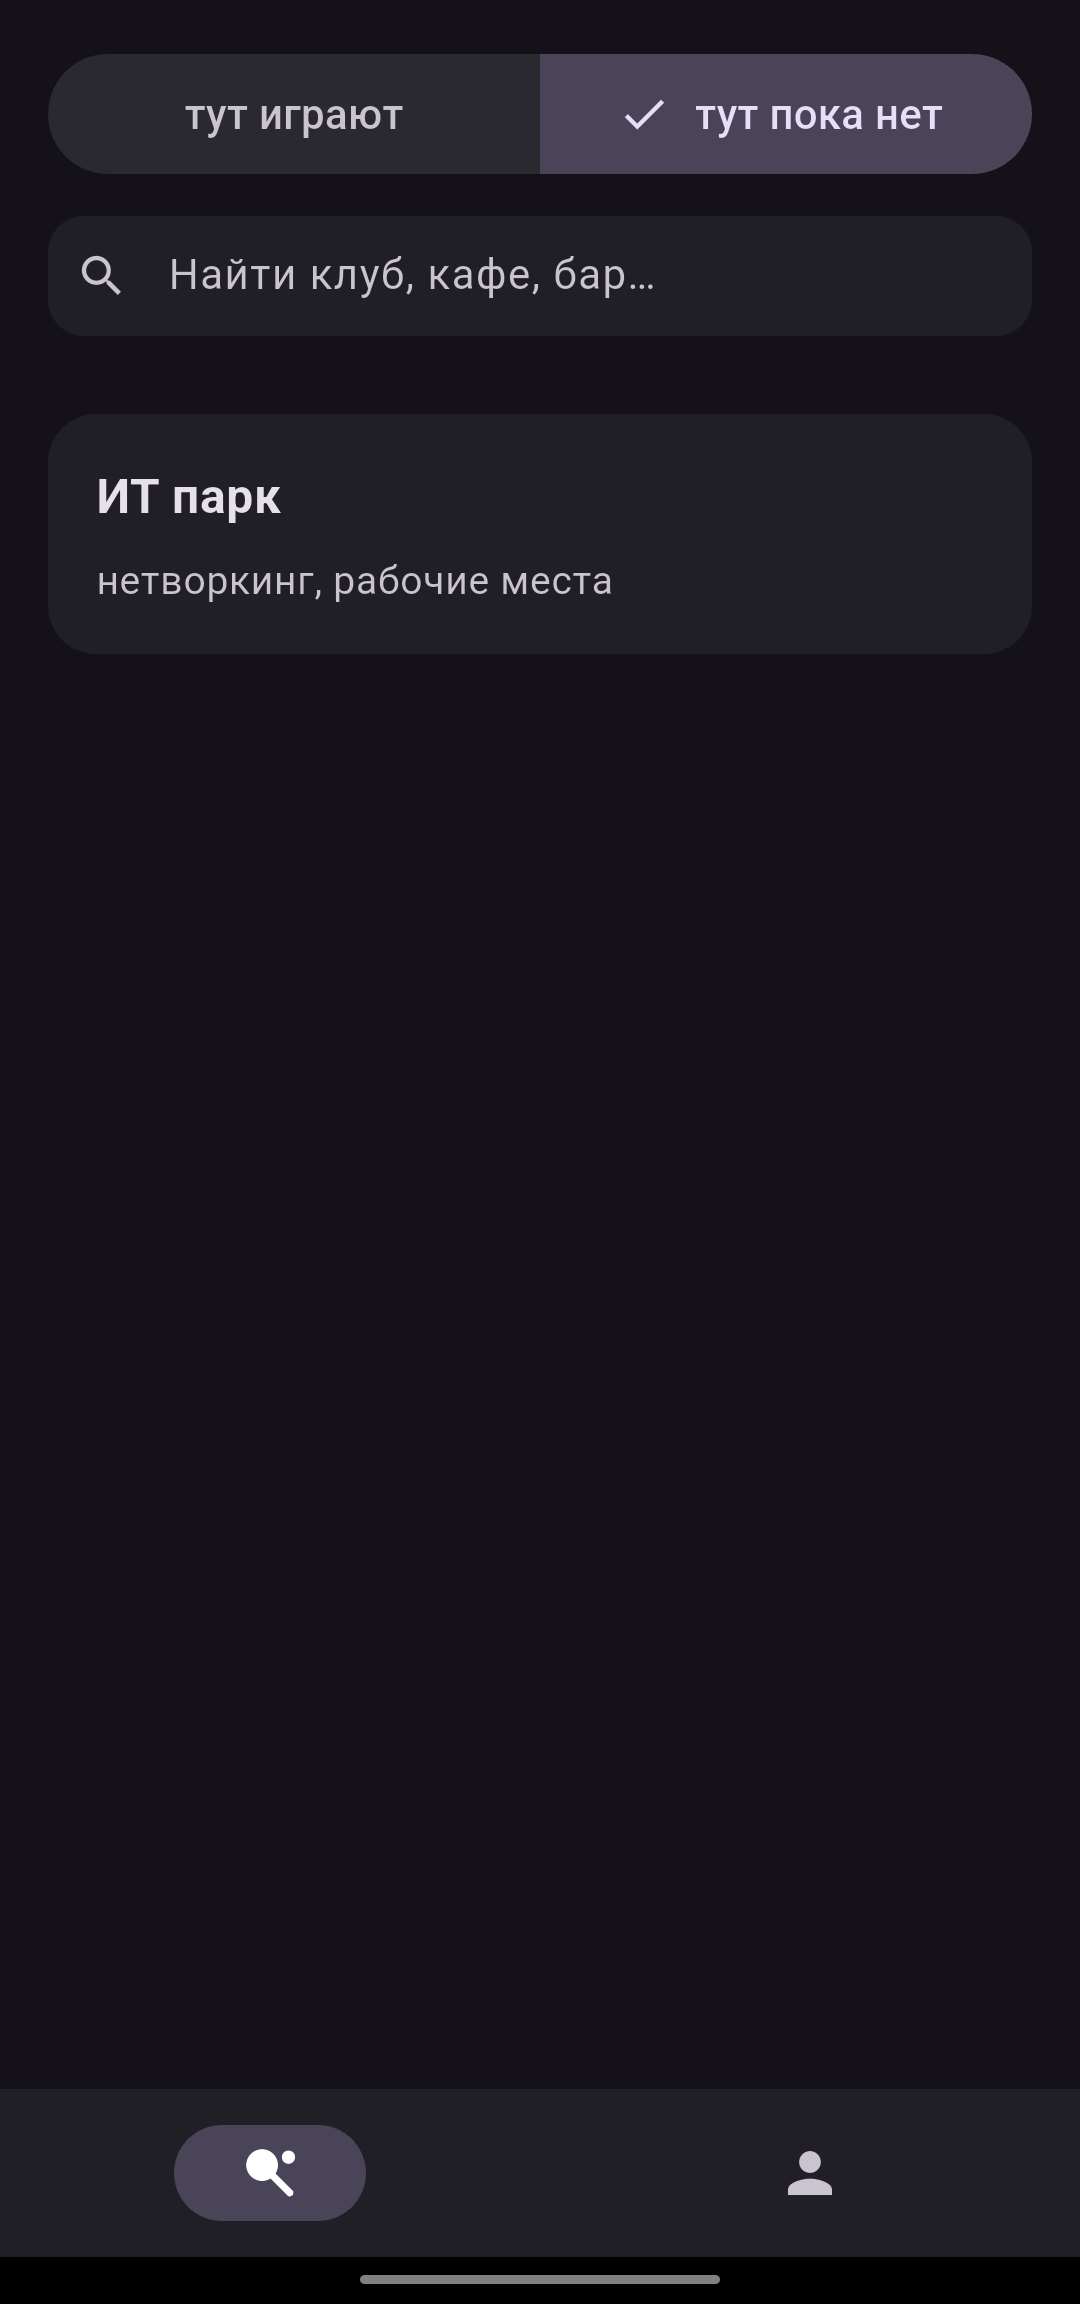
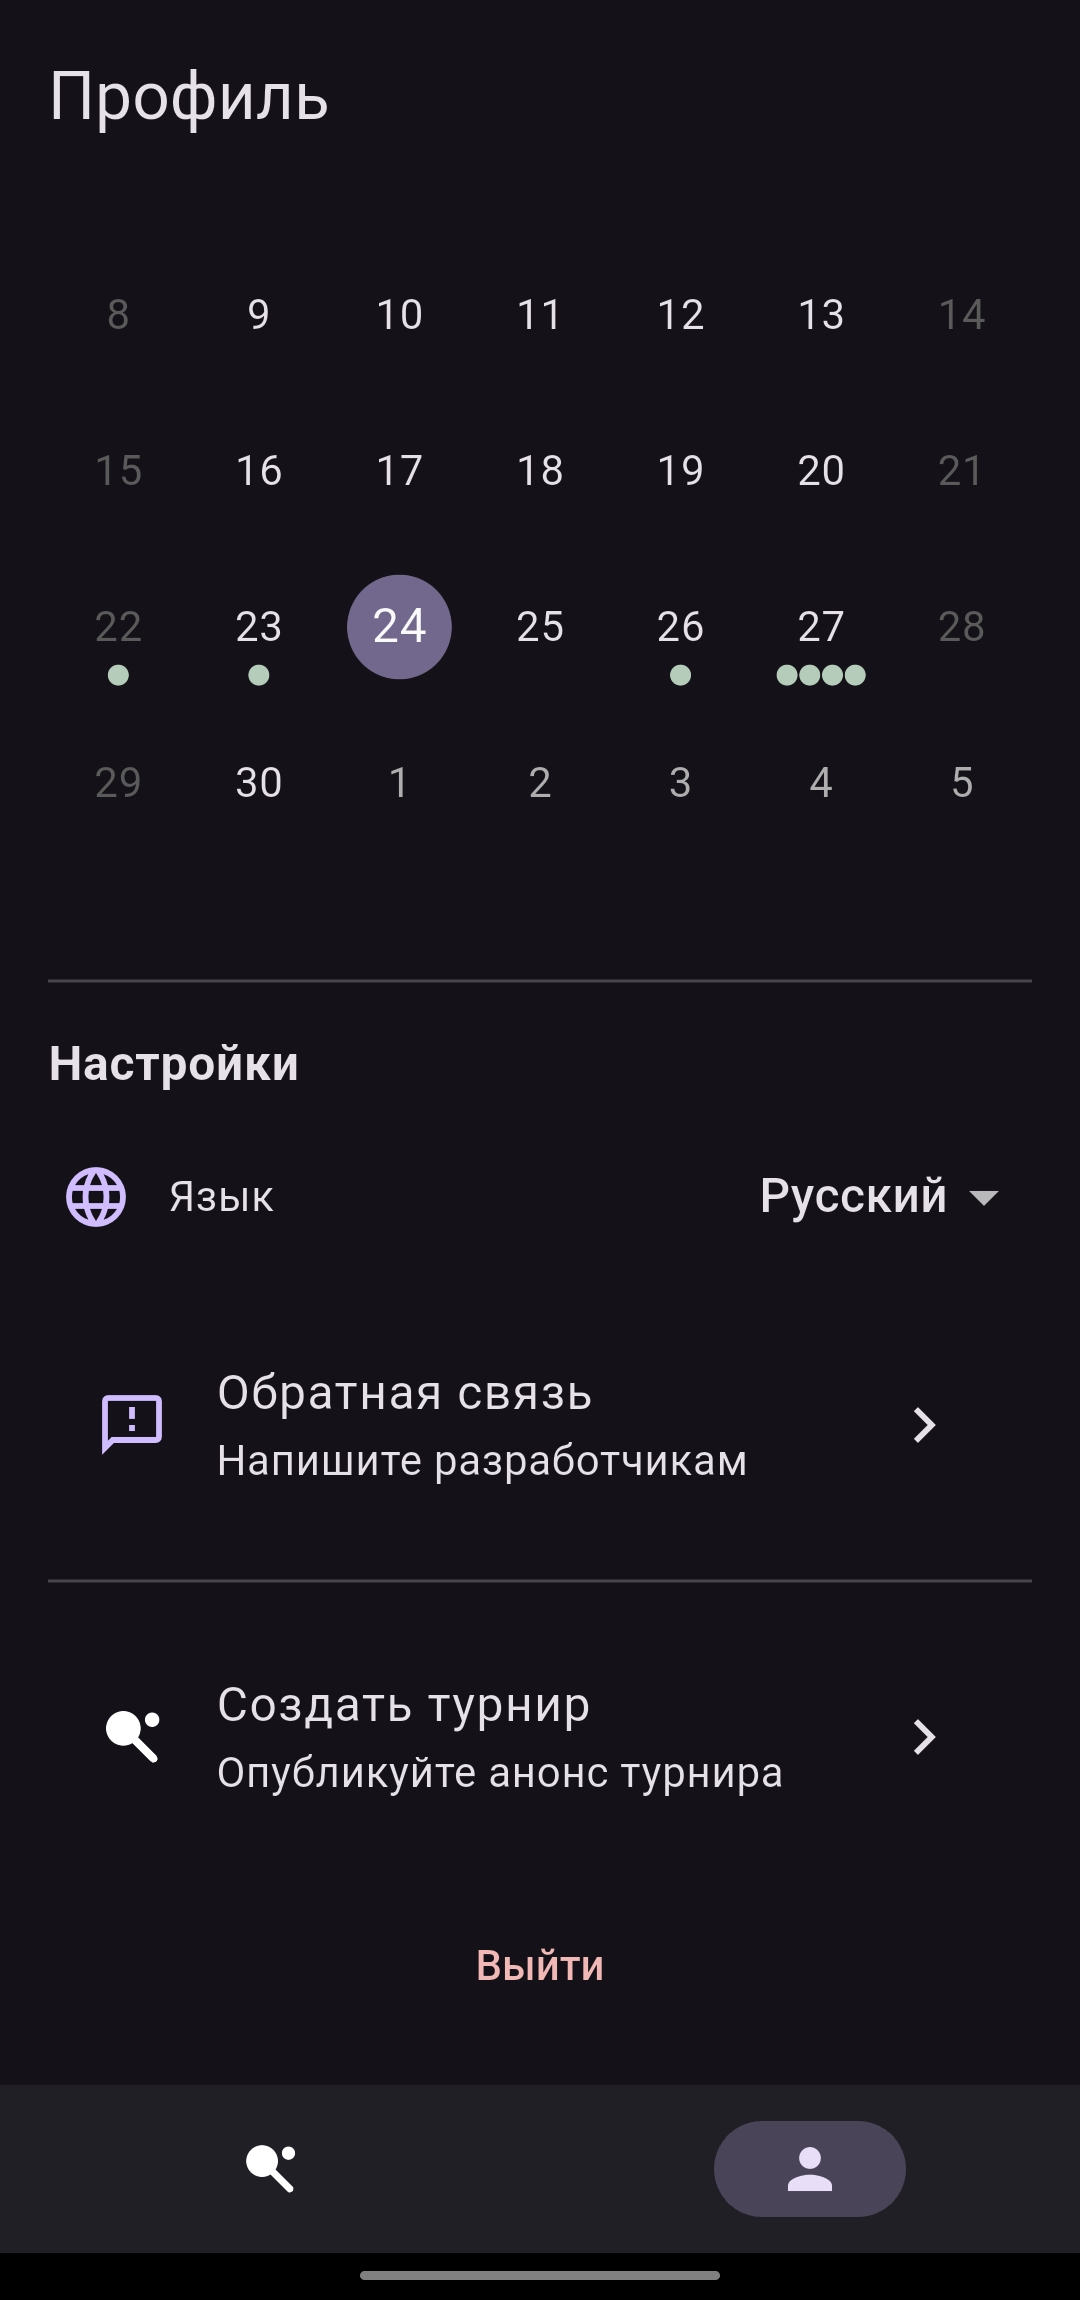
обновил ui

diff --git a/index.html b/index.html
@@ -363,7 +363,7 @@ p strong {
             Экосистема, объединяющая жителей и заведения города.
         </p>
 
-        <img src="bisnes.png" alt="Лента бизнесов" class="phone-mockup" style="margin: 0 auto; max-height: 48vh;">
+        <img src="1.jpg" alt="Лента бизнесов" class="phone-mockup" style="margin: 0 auto; max-height: 48vh;">
     </div>
 </section>
 
